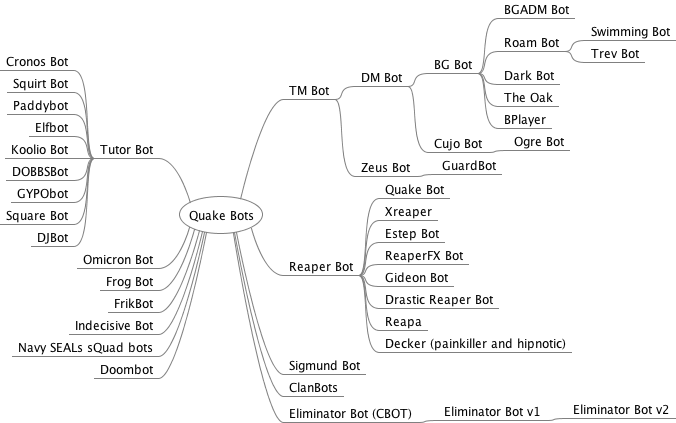
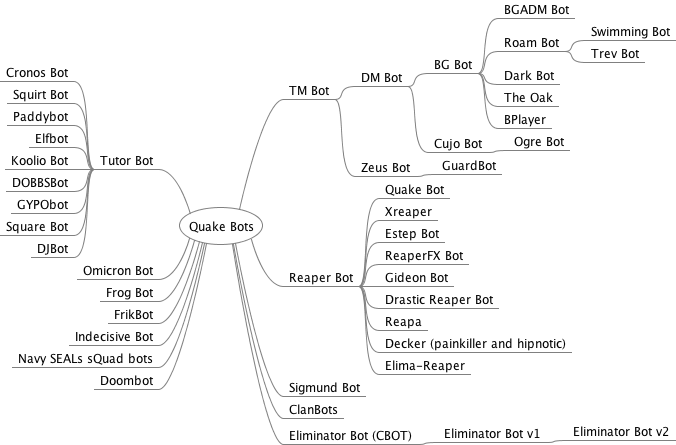
added Elima-Reaper

diff --git a/mindmap/QuakeBots.mm b/mindmap/QuakeBots.mm
@@ -35,7 +35,7 @@
 <node CREATED="1622514212533" ID="ID_723841812" MODIFIED="1622514703771" POSITION="left" TEXT="Omicron Bot"/>
 <node CREATED="1622514920508" ID="ID_432501820" MODIFIED="1622514924237" POSITION="left" TEXT="Frog Bot"/>
 <node CREATED="1622514879263" ID="ID_981472223" MODIFIED="1622514883843" POSITION="left" TEXT="FrikBot"/>
-<node CREATED="1622514191836" ID="ID_937776968" MODIFIED="1622759700222" POSITION="right" TEXT="Reaper Bot">
+<node CREATED="1622514191836" ID="ID_937776968" MODIFIED="1622765296264" POSITION="right" TEXT="Reaper Bot">
 <node CREATED="1622591700948" ID="ID_1772656642" MODIFIED="1622679969616" TEXT="Quake Bot"/>
 <node CREATED="1622593071377" ID="ID_561622825" MODIFIED="1622593075037" TEXT="Xreaper"/>
 <node CREATED="1622593594030" ID="ID_97271700" MODIFIED="1622593595644" TEXT="Estep Bot"/>
@@ -44,6 +44,7 @@
 <node CREATED="1622673183629" ID="ID_236348246" MODIFIED="1622673190218" TEXT="Drastic Reaper Bot"/>
 <node CREATED="1622683900997" ID="ID_269789052" MODIFIED="1622683902962" TEXT="Reapa"/>
 <node CREATED="1622683913824" ID="ID_329641328" MODIFIED="1622683927792" TEXT="Decker (painkiller and hipnotic)"/>
+<node CREATED="1622765296654" ID="ID_18028651" MODIFIED="1622765297924" TEXT="Elima-Reaper"/>
 </node>
 <node CREATED="1622673974992" ID="ID_836172168" MODIFIED="1622673977254" POSITION="right" TEXT="Sigmund Bot"/>
 <node CREATED="1622675037053" ID="ID_1770647602" MODIFIED="1622675039068" POSITION="left" TEXT="Indecisive Bot"/>

diff --git a/README.md b/README.md
@@ -58,3 +58,4 @@ Eliminator Bot (CBOT) | Cameron B. Newham | [elim14.zip](bin/elim14.zip)
 Eliminator Bot v1 | Jon Down aka "Perged" | [elim141.zip](bin/elim141.zip)
 Eliminator Bot v2 | Jon Down aka "Perged" and P. T. Craig aka "FuzzKatT" | Elim20b7.zip
 Doombot (Bot Skeleton) | Roscoe A. Sincero aka "Legion" | [btsk23.zip](bin/btsk23.zip)
+Elima-Reaper | Roscoe A. Sincero aka "Legion" | ?
